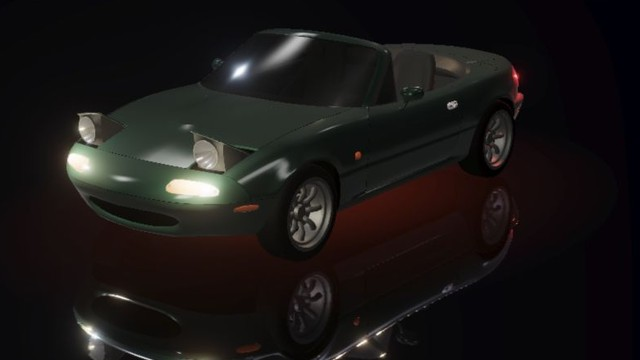
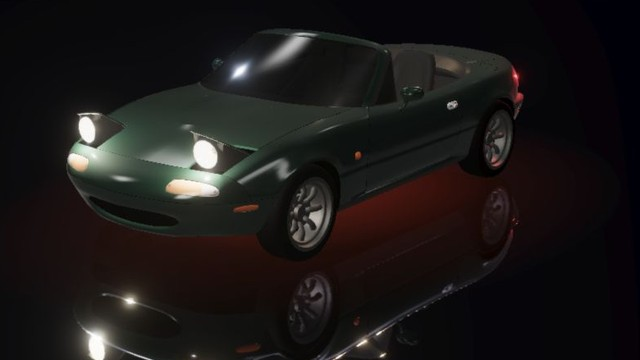
feat: illuminate Miata pop-up headlights

diff --git a/src/three/popupHeadlights.test.ts b/src/three/popupHeadlights.test.ts
@@ -1,5 +1,16 @@
 import { readFileSync } from 'node:fs';
-import { AnimationClip, Group, QuaternionKeyframeTrack } from 'three';
+import {
+  AnimationClip,
+  BufferGeometry,
+  Float32BufferAttribute,
+  Group,
+  Mesh,
+  MeshPhysicalMaterial,
+  PointLight,
+  QuaternionKeyframeTrack,
+  Vector3,
+} from 'three';
+import { vi } from 'vitest';
 import { MeshoptDecoder } from 'three/examples/jsm/libs/meshopt_decoder.module.js';
 import { expect, it } from 'vitest';
 import { CARS } from '../config';
@@ -34,6 +45,33 @@ async function fixture() {
   const pivot = new Group();
   pivot.name = 'headlights';
   root.add(pivot);
+  const fixtureMeshes: Mesh<BufferGeometry, MeshPhysicalMaterial>[] = [];
+  for (const materialName of ['Material.008', 'Material.009']) {
+    const materialIndex = data.materials.findIndex(
+      (material: { name: string }) => material.name === materialName,
+    );
+    const primitives = data.meshes.flatMap(
+      (mesh: { primitives: { material: number; attributes: Record<string, number> }[] }) =>
+        mesh.primitives,
+    );
+    const primitive = primitives.find(
+      (primitive: { material: number }) => primitive.material === materialIndex,
+    );
+    const geometry = new BufferGeometry();
+    geometry.setAttribute(
+      'position',
+      new Float32BufferAttribute(values(primitive.attributes.POSITION, 3), 3),
+    );
+    geometry.setAttribute(
+      'normal',
+      new Float32BufferAttribute(values(primitive.attributes.NORMAL, 3), 3),
+    );
+    const material = new MeshPhysicalMaterial();
+    material.name = materialName;
+    const mesh = new Mesh(geometry, material);
+    fixtureMeshes.push(mesh);
+    pivot.add(mesh);
+  }
   const clip = new AnimationClip('Scene', -1, [
     new QuaternionKeyframeTrack(
       'headlights.quaternion',
@@ -41,7 +79,13 @@ async function fixture() {
       values(sampler.output, 4),
     ),
   ]);
-  return { root, pivot, clip, settings: CARS.find((car) => car.popupHeadlights)!.popupHeadlights };
+  return {
+    root,
+    pivot,
+    clip,
+    fixtureMeshes,
+    settings: CARS.find((car) => car.popupHeadlights)!.popupHeadlights,
+  };
 }
 
 it('uses the authored Miata open pose, reverses mid-travel and holds each endpoint', async () => {
@@ -81,4 +125,44 @@ it('does not expose animation controls when the configured clip is missing', asy
   const { root, settings } = await fixture();
   expect(createPopupHeadlights(root, [], settings)).toBeNull();
   expect(createPopupHeadlights(root, [], undefined)).toBeNull();
+});
+
+it('lights both actual lens surfaces, follows the hinges and restores owned resources', async () => {
+  const { root, pivot, clip, settings, fixtureMeshes } = await fixture();
+  const bulb = fixtureMeshes.find(({ material }) => material.name === settings!.bulbMaterial)!;
+  const original = bulb.material;
+  const controller = createPopupHeadlights(root, [clip], settings)!;
+  const glowing = bulb.material;
+  const disposed = vi.spyOn(glowing, 'dispose');
+  const lights: PointLight[] = [];
+  root.traverse((object) => {
+    if (object instanceof PointLight) lights.push(object);
+  });
+  expect(lights).toHaveLength(2);
+  expect(glowing).not.toBe(original);
+  expect(original.emissiveIntensity).toBe(1);
+  expect(original.emissive.getHex()).toBe(0);
+  expect(glowing.emissiveIntensity).toBeGreaterThan(1);
+  expect(glowing.emissive.r).toBeGreaterThan(glowing.emissive.b);
+  expect(lights.every((light) => light.intensity > 0)).toBe(true);
+  root.updateMatrixWorld(true);
+  const openedPosition = lights[0].getWorldPosition(new Vector3());
+  controller.setRaised(false);
+  for (let i = 0; i < 3; i++) controller.update(0.1);
+  expect(glowing.emissiveIntensity).toBeGreaterThan(0);
+  expect(glowing.emissiveIntensity).toBeLessThan(4);
+  controller.setRaised(false, true);
+  expect(glowing.emissiveIntensity).toBe(0);
+  expect(lights.every((light) => light.intensity === 0)).toBe(true);
+  expect(lights[0].getWorldPosition(new Vector3()).distanceTo(openedPosition)).toBeGreaterThan(
+    0.01,
+  );
+  controller.setRaised(true, true);
+  expect(glowing.emissiveIntensity).toBe(4);
+  expect(lights.every((light) => light.intensity > 0)).toBe(true);
+  controller.dispose();
+  expect(bulb.material).toBe(original);
+  expect(disposed).toHaveBeenCalledOnce();
+  expect(lights.every((light) => light.parent === null)).toBe(true);
+  expect(pivot.children).toHaveLength(2);
 });

diff --git a/src/three/popupHeadlights.ts b/src/three/popupHeadlights.ts
@@ -1,5 +1,77 @@
-import { AnimationMixer, LoopOnce, type AnimationClip, type Object3D } from 'three';
+import {
+  AnimationMixer,
+  Box3,
+  LoopOnce,
+  MathUtils,
+  Mesh,
+  MeshStandardMaterial,
+  PointLight,
+  Vector3,
+  type AnimationClip,
+  type Object3D,
+} from 'three';
 import type { CarSpec } from '../types';
+
+const BULB_COLOR = 0xfff2d8;
+
+function illuminateLenses(model: Object3D, settings: NonNullable<CarSpec['popupHeadlights']>) {
+  const bulbs: { mesh: Mesh; original: Mesh['material']; glowing: MeshStandardMaterial[] }[] = [];
+  const lights: PointLight[] = [];
+  model.updateMatrixWorld(true);
+  model.traverse((object) => {
+    if (!(object instanceof Mesh)) return;
+    const materials = Array.isArray(object.material) ? object.material : [object.material];
+    if (materials.some((material) => material.name === settings.bulbMaterial)) {
+      const glowing: MeshStandardMaterial[] = [];
+      const adapted = materials.map((material) => {
+        if (material.name !== settings.bulbMaterial || !(material instanceof MeshStandardMaterial))
+          return material;
+        const bulb = material.clone();
+        bulb.emissive.setHex(BULB_COLOR);
+        glowing.push(bulb);
+        return bulb;
+      });
+      bulbs.push({ mesh: object, original: object.material, glowing });
+      object.material = Array.isArray(object.material) ? adapted : adapted[0];
+    }
+    if (!materials.some((material) => material.name === settings.lensMaterial)) return;
+    const positions = object.geometry.getAttribute('position');
+    const normals = object.geometry.getAttribute('normal');
+    if (!positions || !normals) return;
+    object.geometry.computeBoundingBox();
+    const middle = object.geometry.boundingBox!.getCenter(new Vector3()).x;
+    const offset =
+      0.08 / Math.max(object.getWorldScale(new Vector3()).length() / Math.sqrt(3), 0.001);
+    for (const left of [true, false]) {
+      const bounds = new Box3();
+      const direction = new Vector3();
+      for (let i = 0; i < positions.count; i++) {
+        if (positions.getX(i) < middle !== left) continue;
+        bounds.expandByPoint(new Vector3().fromBufferAttribute(positions, i));
+        direction.add(new Vector3().fromBufferAttribute(normals, i));
+      }
+      if (bounds.isEmpty()) continue;
+      const light = new PointLight(BULB_COLOR, 0, 7, 2);
+      bounds.getCenter(light.position).addScaledVector(direction.normalize(), offset);
+      object.add(light);
+      lights.push(light);
+    }
+  });
+  return {
+    setBrightness(amount: number) {
+      for (const { glowing } of bulbs)
+        for (const material of glowing) material.emissiveIntensity = amount * 4;
+      for (const light of lights) light.intensity = amount * 2.2;
+    },
+    dispose() {
+      for (const light of lights) light.removeFromParent();
+      for (const { mesh, original, glowing } of bulbs) {
+        mesh.material = original;
+        for (const material of glowing) material.dispose();
+      }
+    },
+  };
+}
 
 // Sample only the opening segment; the source clip also holds, then closes the lights.
 export function createPopupHeadlights(
@@ -10,6 +82,7 @@ export function createPopupHeadlights(
   if (!settings) return null;
   const clip = clips.find(({ name }) => name === settings.clip);
   if (!clip) return null;
+  const illumination = illuminateLenses(model, settings);
   const mixer = new AnimationMixer(model);
   const action = mixer.clipAction(clip);
   action.setLoop(LoopOnce, 1);
@@ -20,6 +93,7 @@ export function createPopupHeadlights(
   const sample = () => {
     const eased = position * position * (3 - 2 * position);
     mixer.setTime(settings.closedTime + (settings.openTime - settings.closedTime) * eased);
+    illumination.setBrightness(MathUtils.smoothstep(eased, 0.4, 1));
   };
   sample();
   return {
@@ -37,6 +111,7 @@ export function createPopupHeadlights(
       sample();
     },
     dispose() {
+      illumination.dispose();
       mixer.stopAllAction();
       mixer.uncacheRoot(model);
     },

diff --git a/src/three/Car.tsx b/src/three/Car.tsx
@@ -119,7 +119,10 @@ export function Car() {
         modelRef.current = model;
         displayedIndex.current = carIndex;
 
-        refs.lamps = spec.roadLights === false ? [] : buildLamps(group, orientedSize, scale);
+        refs.lamps =
+          spec.roadLights === false
+            ? []
+            : buildLamps(group, orientedSize, scale, !headlights.current);
         refs.bodyMaterial = detectBodyMaterial(model, spec.paintMaterial);
         refs.bodyOriginalColor = refs.bodyMaterial?.color?.clone() ?? null;
         setHasBodyMaterial(!!refs.bodyMaterial);
@@ -213,9 +216,7 @@ export function Car() {
     underglowMat.opacity = 0.1 + breath * 0.04 + rev * 0.22;
 
     for (const l of refs.lamps) {
-      const hiddenHeadlight =
-        headlights.current && l.isHeadlight && !useAppStore.getState().headlightsRaised;
-      const boost = hiddenHeadlight ? 0 : !l.isHeadlight ? 1 + rev * 6 : 1;
+      const boost = !l.isHeadlight ? 1 + rev * 6 : 1;
       l.light.intensity = l.baseIntensity * boost;
     }
   });

diff --git a/src/three/carHelpers.test.ts b/src/three/carHelpers.test.ts
@@ -2,6 +2,7 @@ import { describe, expect, it } from 'vitest';
 import * as THREE from 'three';
 import {
   prepareModelGlass,
+  buildLamps,
   autoFitToLength,
   detectBodyMaterial,
   disposeModel,
@@ -246,4 +247,14 @@ it('normalizes an authored diagonal parking pose before framing and grounding', 
   expect(size.z).toBeCloseTo(4.5);
   expect(size.x).toBeCloseTo(2.25);
   expect(bounds.min.y).toBeCloseTo(0);
+});
+
+it('lets moving headlight assemblies own the front lights while retaining taillights', () => {
+  const fixed = buildLamps(new THREE.Group(), new THREE.Vector3(2, 1, 4), 1);
+  expect(fixed.filter((lamp) => lamp.isHeadlight)).toHaveLength(2);
+  const group = new THREE.Group();
+  const moving = buildLamps(group, new THREE.Vector3(2, 1, 4), 1, false);
+  expect(moving).toHaveLength(2);
+  expect(moving.every((lamp) => !lamp.isHeadlight && lamp.baseIntensity > 0)).toBe(true);
+  expect(group.children).toHaveLength(2);
 });

diff --git a/src/three/carHelpers.ts b/src/three/carHelpers.ts
@@ -212,6 +212,7 @@ export function buildLamps(
   parent: THREE.Object3D,
   orientedSize: THREE.Vector3,
   scale: number,
+  includeHeadlights = true,
 ): Lamp[] {
   const halfL = TARGET_LENGTH / 2;
   const halfW = (orientedSize.x * scale) / 2;
@@ -222,8 +223,10 @@ export function buildLamps(
     parent.add(pt);
     out.push({ light: pt, baseIntensity: intensity, isHeadlight });
   };
-  add(HEADLIGHT_COLOR, -halfW * 0.62, halfL - 0.05, HEADLIGHT_INTENSITY, true);
-  add(HEADLIGHT_COLOR, halfW * 0.62, halfL - 0.05, HEADLIGHT_INTENSITY, true);
+  if (includeHeadlights) {
+    add(HEADLIGHT_COLOR, -halfW * 0.62, halfL - 0.05, HEADLIGHT_INTENSITY, true);
+    add(HEADLIGHT_COLOR, halfW * 0.62, halfL - 0.05, HEADLIGHT_INTENSITY, true);
+  }
   add(TAILLIGHT_COLOR, -halfW * 0.68, -halfL + 0.05, TAILLIGHT_INTENSITY, false);
   add(TAILLIGHT_COLOR, halfW * 0.68, -halfL + 0.05, TAILLIGHT_INTENSITY, false);
   return out;

diff --git a/src/types.ts b/src/types.ts
@@ -43,7 +43,13 @@ export type CarSpec = {
   preserveFlatMeshes?: boolean;
   orientationYaw?: number;
   roadLights?: boolean;
-  popupHeadlights?: { clip: string; closedTime: number; openTime: number };
+  popupHeadlights?: {
+    clip: string;
+    closedTime: number;
+    openTime: number;
+    bulbMaterial: string;
+    lensMaterial: string;
+  };
   defaultPaint: { name: string; hex: string; preserveSource?: boolean };
   credit?: Credit;
 };

diff --git a/src/cars.ts b/src/cars.ts
@@ -111,7 +111,13 @@ const registry: Omit<CarSpec, 'credit'>[] = [
   },
   {
     file: 'mazda-mx5-na.glb',
-    popupHeadlights: { clip: 'Scene', closedTime: 1 / 24, openTime: 1.7 },
+    popupHeadlights: {
+      clip: 'Scene',
+      closedTime: 1 / 24,
+      openTime: 1.7,
+      bulbMaterial: 'Material.009',
+      lensMaterial: 'Material.008',
+    },
     name: 'Mazda MX-5 Miata',
     code: 'NA',
     paintMaterial: 'Material.002',

diff --git a/art/ui-qa/october-23/miata-illumination/README.md b/art/ui-qa/october-23/miata-illumination/README.md
@@ -1,0 +1,22 @@
+# Miata lamp illumination
+
+The pop-up lamps emit warm white light while raised. Their light sources sit just
+outside the two lens surfaces and move with the authored hinge animation. Brightness
+follows the opening pose, fades out before the lights close, and snaps with the pose
+for reduced motion. The Miata's generic fixed front lights are omitted; taillights
+and other cars retain their existing lighting.
+
+[Desktop at night](desktop-on.jpg) shows the round lamps illuminating and reflecting
+in the floor. [Clean dusk capture](clean-on.jpg) supplies the refreshed picker preview.
+Phone captures show the existing Lights control with [raised/lit lamps](phone-on.jpg)
+and [lowered/off lamps](phone-off.jpg), also shown in the [comparison](comparison.jpg).
+
+Regression fixtures read the actual compressed Miata lens geometry and animation.
+They check paired lights, hinge following, intermediate brightness, endpoint states,
+original material preservation, disposal, and retaining taillights when generic front
+lights are omitted. A temporary zero-emission mutation made the bulb regression fail;
+the restored implementation passes. Repository verification and focused garage browser
+checks run separately so a rebuilding preview cannot interrupt an active browser test.
+
+This review uses desktop browser viewport emulation. Physical-phone GPU behavior and
+screen-reader audio are not covered.

diff --git a/docs/architecture.md b/docs/architecture.md
@@ -62,7 +62,10 @@ in front of its coplanar shell and corrects its body/glass metalness for the stu
 lighting without changing textures or wheel finishes. `popupHeadlights` samples the
 Miata's authored opening clip between its closed and raised poses; its Lights button
 reverses travel, starts raised on selection and snaps poses for reduced motion.
-The animation mixer releases its bindings when the model is replaced. Framing measures actual world-space
+The bulb materials emit warm light while raised; lens-mounted point lights follow
+the hinges and replace the Miata’s fixed front lights. Both fade with the opening
+pose. The controller restores cloned bulb materials and removes its lights when
+the model is replaced, alongside releasing animation bindings. Framing measures actual world-space
 vertices once on load so rotated mesh bounds do not lift cars off the floor. Only
 the default car and the smallest companion warm the HTTP cache when network conditions permit;
 heavier full-detail cars load on selection. `carHelpers` owns geometry,

diff --git a/docs/model-licenses.md b/docs/model-licenses.md
@@ -143,7 +143,9 @@ also corrects the printed body's metallic response, uses neutral transparent
 glazing, and offsets the livery surface to avoid overlap artifacts. These runtime
 material adjustments preserve the source GLB, decals, geometry and wheel finishes.
 The Miata's embedded headlight animation is sampled by a reversible Lights button;
-headlights start raised, with instant pose changes for reduced motion.
+headlights start raised, with instant pose changes for reduced motion. Warm bulb
+emission and lens-mounted lights are added at runtime and fade with the opening
+pose; the source geometry, textures and animation remain unchanged.
 
 The new repaintable defaults are British Racing Green for the Miata, the source
 Solar Orange for the GR Supra, Shark Blue for the GT3 and Verde Ithaca for the
